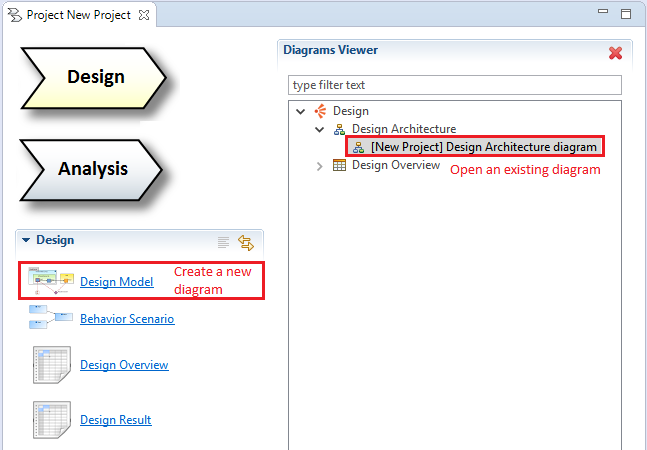
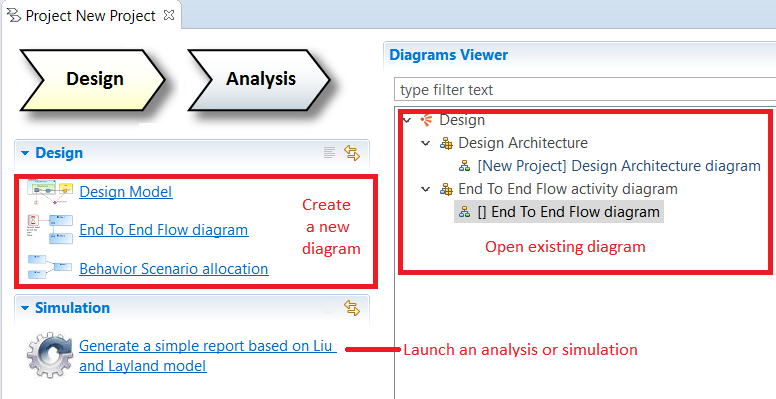
Update docs with new images.

Changed region(s): [[0.0, 0.0, 1.0, 1.0], [0.6182, 0.6015, 0.8346, 0.6316]]

diff --git a/Time4Sys/plugins/org.polarsys.time4sys.activity.explorer/src/org/polarsys/time4sys/activity/explorer/activity/EndToEndFlowActivity.java b/Time4Sys/plugins/org.polarsys.time4sys.activity.explorer/src/org/polarsys/time4sys/activity/explorer/activity/EndToEndFlowActivity.java
@@ -1,0 +1,64 @@
+/*******************************************************************************
+ * Copyright (c) 2016, 2017 Artal Technologies and others.
+ * All rights reserved. This program and the accompanying materials
+ * are made available under the terms of the Eclipse Public License v1.0
+ * which accompanies this distribution, and is available at
+ * http://www.eclipse.org/legal/epl-v10.html
+ *
+ * Contributors:
+ *     Aurelien Didier (Artal Technologies) - initial API and implementation
+ *******************************************************************************/
+package org.polarsys.time4sys.activity.explorer.activity;
+
+import org.eclipse.amalgam.explorer.activity.ui.api.hyperlinkadapter.AbstractNewDiagramHyperlinkAdapter;
+import org.eclipse.amalgam.explorer.activity.ui.api.manager.ActivityExplorerManager;
+import org.eclipse.emf.common.util.EList;
+import org.eclipse.emf.ecore.EObject;
+import org.eclipse.emf.transaction.RecordingCommand;
+import org.eclipse.emf.transaction.TransactionalEditingDomain;
+import org.eclipse.emf.transaction.util.TransactionUtil;
+import org.eclipse.sirius.business.api.session.Session;
+import org.eclipse.sirius.business.api.session.SessionListener;
+import org.eclipse.sirius.tools.api.ui.RefreshEditorsPrecommitListener;
+import org.eclipse.ui.forms.events.HyperlinkEvent;
+import org.polarsys.time4sys.marte.gqam.BehaviorScenario;
+import org.polarsys.time4sys.marte.gqam.GqamFactory;
+import org.polarsys.time4sys.marte.sam.EndToEndFlow;
+import org.polarsys.time4sys.marte.sam.SamFactory;
+import org.polarsys.time4sys.model.time4sys.Project;
+
+public class EndToEndFlowActivity extends AbstractNewDiagramHyperlinkAdapter {
+
+	public EndToEndFlowActivity() {
+		super(ActivityExplorerManager.INSTANCE.getRootSemanticModel());
+	}
+
+	@Override
+	public void linkActivated(final HyperlinkEvent event) {
+		Session session = ActivityExplorerManager.INSTANCE.getSession();
+		RefreshEditorsPrecommitListener repl = session.getRefreshEditorsListener();
+		repl.notify(SessionListener.REPRESENTATION_CHANGE);
+		repl.notify(SessionListener.SEMANTIC_CHANGE);
+		EObject root = ActivityExplorerManager.INSTANCE.getRootSemanticModel();
+		if (root instanceof Project) {
+			Project rootProject = (Project) root;
+			final EList<EndToEndFlow> etefList = rootProject.getDesign().getEndToEndFlows();
+			if (etefList.isEmpty()) {
+				final EndToEndFlow etef = SamFactory.eINSTANCE.createEndToEndFlow();
+				final TransactionalEditingDomain domain = TransactionUtil.getEditingDomain(rootProject);
+				domain.getCommandStack().execute(new RecordingCommand(domain) {
+					public void doExecute() {
+						etefList.add(etef);
+					}
+				});
+			}
+			linkPressed(event, etefList.get(0), session);
+		}
+	}
+
+	@Override
+	public String getRepresentationName() {
+		return "End To End Flow activity diagram";
+	}
+
+}
